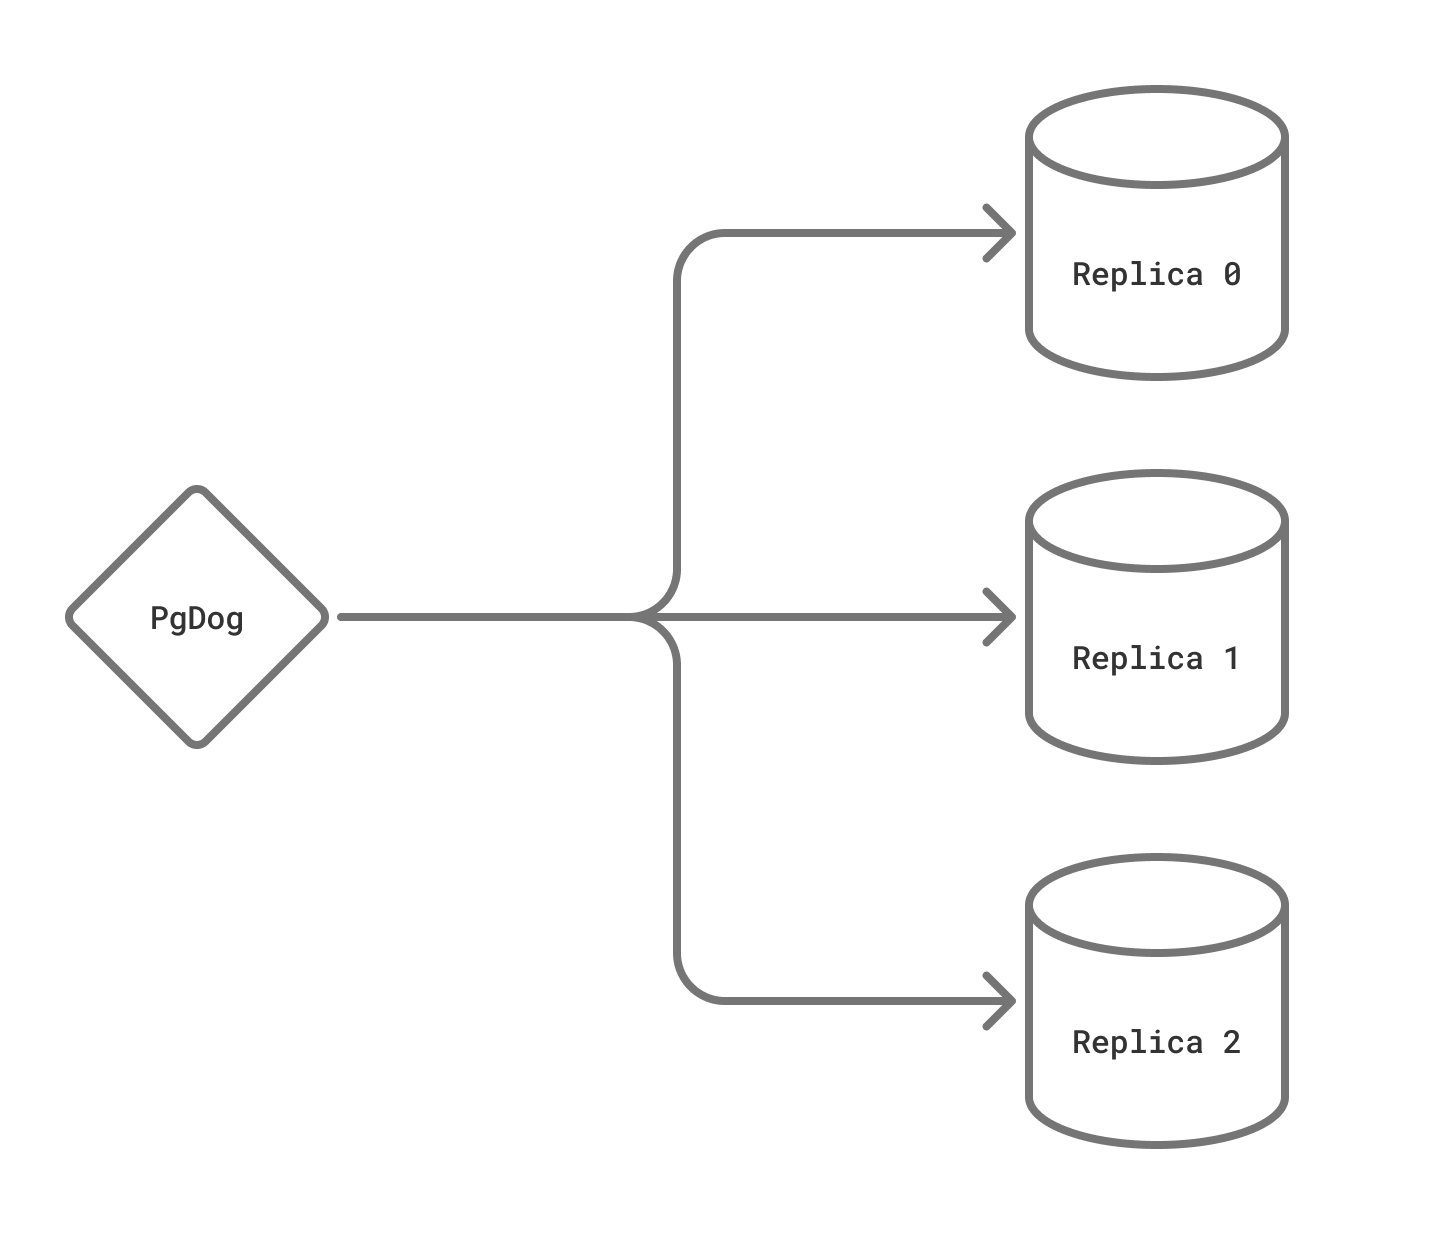
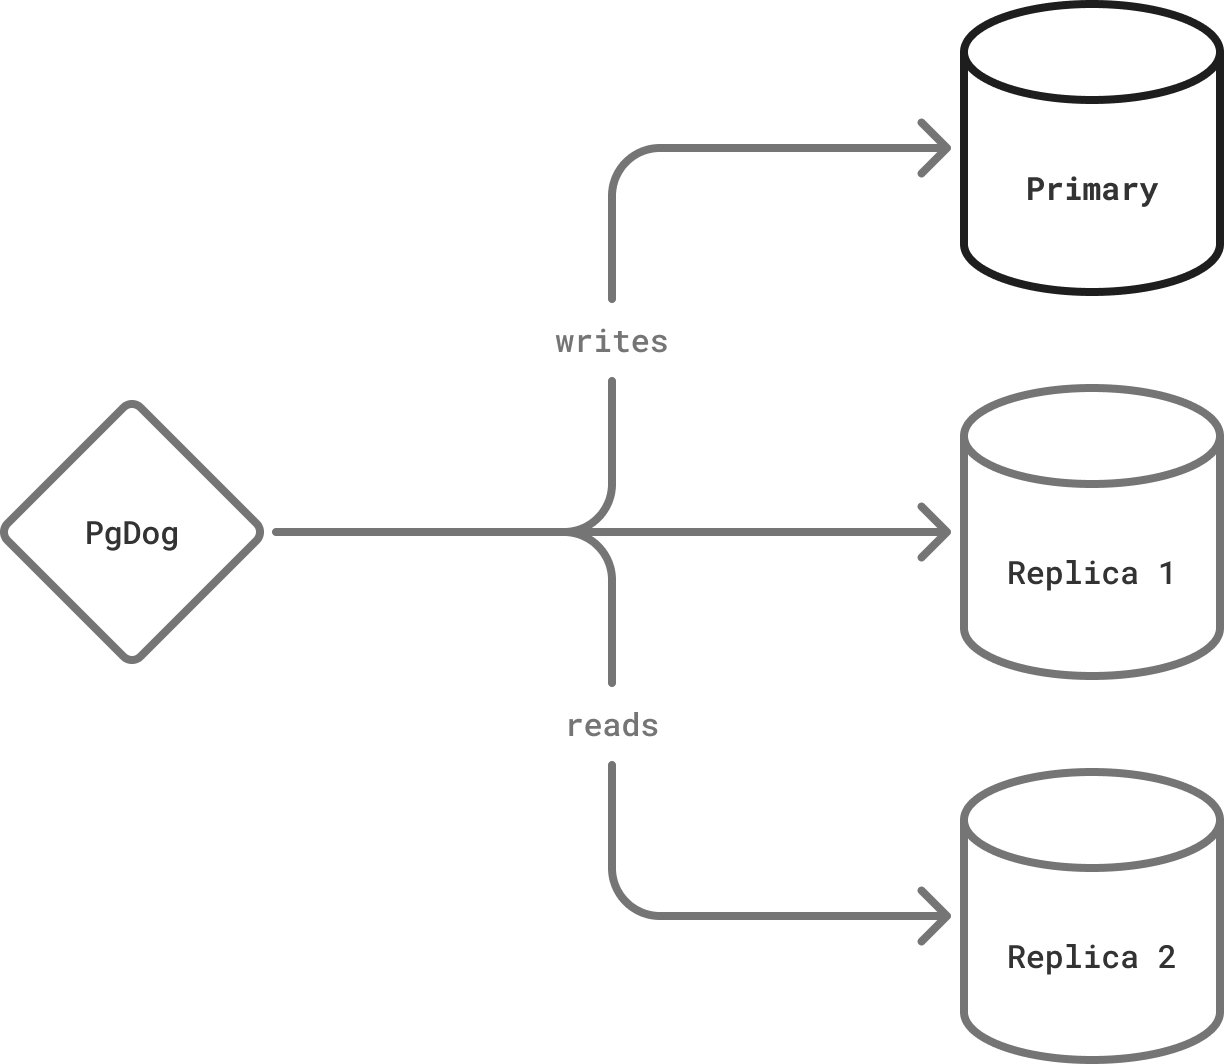
LB docs, auth docs, installation fixes

Changed region(s): [[0.4346, 0.0, 1.0, 1.0], [0.683, 0.3412, 1.0, 0.6513], [0.0, 0.3722, 0.2484, 0.6203]]

diff --git a/docs/features/load-balancer.md b/docs/features/load-balancer.md
@@ -10,8 +10,9 @@ multiple PostgreSQL replicas.
 
 ## How it works
 
-When a query is sent to PgDog, it inspects it using a SQL parser. If the query is a `SELECT` and PgDog is configured to proxy database replicas, it will send that query
-to one of the replicas. This allows to distribute queries between multiple databases, spreading the load evenly.
+When a query is sent to PgDog, it inspects it using a SQL parser. If the query is a read and PgDog configuration contains multiple databases, it will send that query to one of the replicas, spreading the query load evenly between all instances in the cluster.
+
+If the configuration contains the primary as well, PgDog will separate writes from reads and send writes to the primary, without requiring any application changes.
 
 <center>
   <img src="/images/replicas.png" width="60%" alt="Load balancer" />
@@ -38,6 +39,13 @@ and assumes nothing about available resources or query performance.
 
 This strategy is used by **default**.
 
+##### Configuration
+
+```toml
+[general]
+load_balancer_strategy = "random"
+```
+
 #### Least active connections
 
 PgDog keeps track of how many active connections each database has and can route queries to databases
@@ -47,28 +55,39 @@ which are least busy executing requests. This allows to "bin pack" the cluster b
 This strategy is useful when all databases have identical resources and all queries have roughly the same
 cost and runtime.
 
+##### Configuration
+
+```toml
+[general]
+load_balancer_strategy = "least_active_connections"
+```
+
 #### Round robin
 
 This strategy is often used in HTTP load balancers, like nginx, to route requests to hosts in the
 same order they appear in the configuration. Each database receives exactly one query before the next
 one is used.
 
-This strategy makes the same assumptions as [least active connections](#least-active-connections), except it makes no attempt to bin pack
-the cluster with workload, and distributes queries evenly.
+This strategy makes the same assumptions as [least active connections](#least-active-connections), except it makes no attempt to bin pack the cluster with workload, and distributes queries evenly.
 
-## Handling writes
+##### Configuration
 
-The load balancer can split read `SELECT` queries from write queries. This strategy is effective 99% of the time, since `SELECT` queries that write to the database
-are rare and are typically used for database maintenance.
+```toml
+[general]
+load_balancer_strategy = "round_robin"
+```
 
-!!! note
-    `SELECT ... FOR UPDATE` is routed to the primary because it likely means the
-    row is about to be updated.
+## Reads and writes
 
-If PgDog detects that a query is _not_ a `SELECT`, like an `INSERT` or and `UPDATE`, and it's configuration contains a primary,
-that query will be sent to primary. This allows a PgDog deployment to proxy an entire PostgreSQL cluster without creating separate read and write endpoints.
+The load balancer can split reads (`SELECT` queries) from write queries. If PgDog detects that a query is _not_ a `SELECT`, like an `INSERT` or and `UPDATE`, that query will be sent to primary. This allows a PgDog deployment to proxy an entire PostgreSQL cluster without creating separate read and write endpoints.
 
-### CTEs that write
+This strategy is effective most of the time, and PgDog also handles several edge cases.
+
+#### Select for update
+
+The most common one is `SELECT [...] FOR UDPATE` which locks rows for exclusive access. Much like the name suggests, the most common use case for this is to update the row, which is a write operation. PgDog will detect this and send the query to the primary instead.
+
+#### CTEs that write
 
 Some `SELECT` queries can trigger a write to the database from a CTE, for example:
 
@@ -79,12 +98,29 @@ WITH t AS (
 SELECT * FROM users INNER JOIN t ON t.id = users.id
 ```
 
-PgDog will check all CTEs and if any of them contain queries that could write, it will send that query to the primary.
+PgDog will check all CTEs and if any of them contain queries that could write, it will send the entire query to the primary.
+
+### Transactions
+
+All explicit transactions are routed to the primary. An explicit transaction is started by using the `BEGIN` statement, e.g.:
+
+```postgresql
+BEGIN;
+INSERT INTO users (email, created_at) VALUES ($1, NOW()) RETURNING *;
+COMMIT;
+```
+
+While more often used to atomically perform writes to multiple tables, transactions can also manually route read queries to the primary as to avoid having to handle replication lag for time-sensitive queries.
+
+!!! note
+    This is common with background jobs that get triggered after a row has been inserted by an HTTP controller.
+    The job queue is typically configured to read data from a replica which is a few milliseconds behind the primary and, unless specifically handled, result in a "record not found" error.
+
 
 ## Configuration
 
-The load balancer is enabled automatically when a database cluster contains more than
-one database. For example:
+The load balancer is enabled automatically when cluster contains more than
+one database, for example:
 
 ```toml
 [[databases]]
@@ -96,6 +132,15 @@ host = "10.0.0.1"
 name = "prod"
 role = "replica"
 host = "10.0.0.2"
+```
+
+### Reads on the primary
+
+By default, the primary is used for serving reads and writes. If you want to isolate your workloads and have your replicas serve all read queries, you can configure it like so:
+
+```toml
+[general]
+read_write_split = "exclude_primary"
 ```
 
 ## Read more

diff --git a/docs/features/authentication.md b/docs/features/authentication.md
@@ -1,14 +1,45 @@
 # Authentication
 
-PostgreSQL servers support many authentication mechanisms. PgDog supports a subset of those, with the aim to support all of them over time. Since PostgreSQL 14, `SCRAM-SHA-256` is widely used to encrypt passwords and PgDog supports this algorithm for both client and server connections.
+PostgreSQL servers support many authentication mechanisms. PgDog supports a subset of those, with the aim to support all of them over time. Since PostgreSQL 14, `scram-sha-256` is widely used to encrypt passwords and PgDog supports this algorithm for both client and server connections.
 
-Authentication is **enabled** by default. Applications connecting to PgDog must provide a username and password which is [configured](../configuration/users.toml/users.md) in `users.toml`. For connecting to PostgreSQL databases,
-PgDog currently supports only `SCRAM-SHA-256`.
+Authentication is **enabled** by default. Applications connecting to PgDog must provide a username and password which is [configured](../configuration/users.toml/users.md) in `users.toml`.
+
+
+## Supported methods
+
+PgDog implements a subset of authentication methods supported by Postgres. We're continuously working on adding more. The following table summarizes which algorithms are supported for client and server connections.
+
+| Authentication method | Client connections | Server connections |
+|-|-|-|
+| `scram-sha-256` | :material-check-circle-outline: | :material-check-circle-outline: |
+| `scram-sha-256-plus` | No | No |
+| `md5` | :material-check-circle-outline: | :material-check-circle-outline: |
+| `plain` | Only for [passthrough](#passthrough-authentication) | :material-check-circle-outline: |
+| `trust` | :material-check-circle-outline: | :material-check-circle-outline: |
 
 !!! note
-    Currently, PgDog uses MD5 authentication with clients that connect over TLS.
+    Currently, PgDog uses `md5` authentication with clients that connect over TLS.
     This is due to a potential bug in our SCRAM implementation. See [issue #48](https://github.com/pgdogdev/pgdog/issues/48)
     for updates on this.
+
+### Client authentication
+
+By default, client connections will use `scram-sha-256` for password encryption during the authentication handshake. This method is secure and recommended in production. PgDog does support using others, and you can change it with configuration:
+
+```toml
+[general]
+auth_method = "scram"
+```
+
+Available options currently are:
+
+- `scram` (SCRAM-SHA-256)
+- `md5`
+- `trust` (No authentication)
+
+### Server authentication
+
+Server authentication method is controlled by PostgreSQL. PgDog will use whatever method Postgres requests during connection creation, which is configurable in [`pg_hba.conf`](https://www.postgresql.org/docs/current/auth-pg-hba-conf.html).
 
 
 ## Add users
@@ -22,7 +53,7 @@ database = "pgdog"
 password = "hunter2"
 ```
 
-PgDog will expect clients connecting as `pgdog` to provide the password `hunter2` (hashed with `SCRAM-SHA-256`), and will use the same username and password to connect to PostgreSQL.
+PgDog will expect clients connecting as `pgdog` to provide the password `hunter2` (hashed with `scram-sha-256` by default), and will use the same username and password to connect to PostgreSQL.
 
 #### Override server credentials
 
@@ -49,11 +80,16 @@ passthrough_auth = "enabled"
 
 This will require clients to send passwords in plain text. PgDog will create a connection pool for the database/user pair and the provided password. The database must exist in `pgdog.toml`.
 
-The connection pool is dynamic and will be removed when PgDog is restarted. As long as `passthrough_auth` is enabled between config changes, clients shouldn't be impacted, since connection pools will be recreated next time clients reconnect or execute a query.
+The connection pool is dynamic and will created the first time a client connects. When configuration is reloaded, the connection pool is removed. As long as `passthrough_auth` is enabled between config changes, clients won't be impacted, since connection pools will be recreated next time clients reconnect or execute a query.
 
 ### Security
 
-Sending plain text passwords over unencrypted connections isn't great, even if PgDog and Postgres are on the same local network. For this reason, `passthrough_auth = "enabled"` will only work if PgDog is configured to use TLS encryption. If you want to override this and send passwords in plain text, set `passthrough_auth` to `"enable_plain"`.
+Sending plain text passwords over unencrypted connections isn't great, even if PgDog and Postgres are on the same local network. For this reason, `passthrough_auth = "enabled"` will only work if PgDog is configured to use TLS encryption. If you want to override this and send passwords in plain text, set `passthrough_auth` to `"enabled_plain"`:
+
+```toml
+[general]
+passthrough_auth = "enabled_plain"
+```
 
 ## Password security
 

diff --git a/docs/installation.md b/docs/installation.md
@@ -61,7 +61,7 @@ Make sure to include CMake in the installation.
 
 Since PgDog is written in Rust, make sure to install the latest version of the [compiler](https://rust-lang.org).
 
-## Build from source
+### Compile PgDog
 
 PgDog source code can be downloaded from [GitHub](https://github.com/pgdogdev/pgdog):
 
@@ -70,15 +70,21 @@ git clone https://github.com/pgdogdev/pgdog && \
 cd pgdog
 ```
 
-### Compile PgDog
-
 PgDog should be compiled in release mode to make sure you get all performance benefits. You can do this with Cargo:
 
 ```bash
 cargo build --release
 ```
 
-### Configuration
+### Launch PgDog
+
+Starting PgDog can be done by running the binary in `target/release` folder or with Cargo:
+
+```bash
+cargo run --release
+```
+
+## Configuration
 
 PgDog is [configured](configuration/index.md) via two files:
 
@@ -92,12 +98,10 @@ Both files can to be placed in the current working directory (`$PWD`) for PgDog 
 you can specify their location when starting PgDog, using the `--config` and `--users` arguments:
 
 ```bash
-./target/release/pgdog \
-    --config /path/to/pgdog.toml \
-    --users path/to/users.toml
+pgdog --config /path/to/pgdog.toml --users path/to/users.toml
 ```
 
-#### Example `pgdog.toml`
+#### `pgdog.toml`
 
 Most PgDog configuration options have sensible defaults. This allows a basic, single database configuration, to be pretty short:
 
@@ -111,10 +115,9 @@ name = "postgres"
 host = "127.0.0.1"
 ```
 
-#### Example `users.toml`
+#### `users.toml`
 
-This configuration file contains a mapping between databases, users and passwords. Users not specified in this file
-won't be able to connect to PgDog:
+This configuration file contains a mapping between databases, users and passwords. Unless you configured [passthrough authentication](features/authentication.md#passthrough-authentication), users not specified in this file won't be able to connect to PgDog:
 
 ```toml
 [[users]]
@@ -123,13 +126,9 @@ database = "postgres"
 password = "hunter2"
 ```
 
-### Launch PgDog
-
-Starting PgDog can be done by running the binary in `target/release` folder or with Cargo:
-
-```bash
-cargo run --release
-```
+!!! note
+    PgDog creates connection pools for each user/database pair. If no users are specified in `users.toml`,
+    connection pools will not be created at pooler startup.
 
 ## Next steps
 

diff --git a/docs/features/index.md b/docs/features/index.md
@@ -9,6 +9,7 @@ load balancing, healthchecks, and query routing have been battle-tested and work
 
 ## Summary
 
+Short summary of currently implemented features.
 
 | Feature | Description |
 |---------|-------------|
@@ -17,6 +18,7 @@ load balancing, healthchecks, and query routing have been battle-tested and work
 | [Transaction mode](transaction-mode.md) | Share PostgreSQL connections between thousands of clients, a necessary feature for production deployments. |
 | [Hot reload](../configuration/index.md) | Update configuration at runtime without restarting PgDog. |
 | [Sharding](sharding/index.md) | Automatic query routing and logical replication between data nodes to scale PostgreSQL horizontally. |
+| [Prepared statements](prepared-statements.md) | Support for Postgres named prepared statements. |
 | [Plugins](plugins/index.md) | Pluggable libraries to add functionality to PgDog at runtime. |
 | [Authentication](authentication.md) | Support for various PostgreSQL authentication mechanisms, like `SCRAM-SHA-256`. |
 | [Session mode](session-mode.md) | Compatibility mode with direct PostgreSQL connections. |
